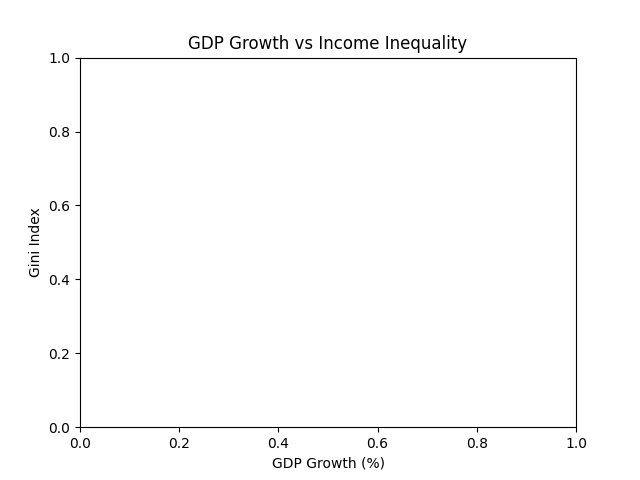
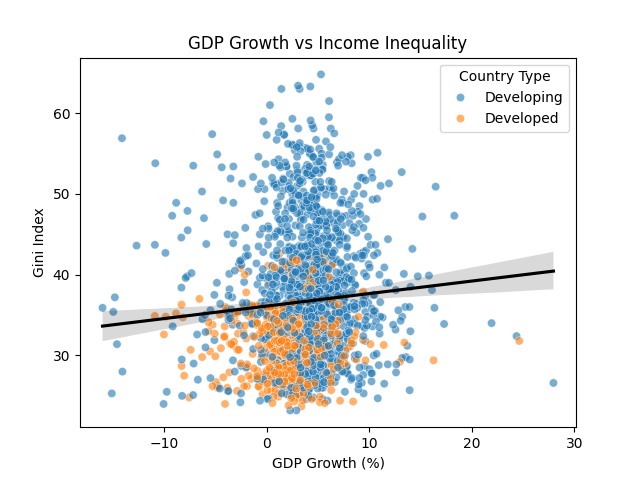
Edited errors in visualisations of charts.
- Added a requirements.txt file to specify necessary packages for the GDP inequality analysis project.
- Included packages: ipython, numpy, pandas, matplotlib, seaborn, and openpyxl for data analysis and visualization.

diff --git a/GDP-inequality-analysis_portfolio/scripts/analysis.py b/GDP-inequality-analysis_portfolio/scripts/analysis.py
@@ -7,9 +7,14 @@ print(df["Series Name"].unique())
 
 # Seperate economic indicators
 gdp_growth = df[df["Series Name"] == "GDP growth (annual %)"]
-gdp_pc = df[df["Series Name"] == "GDP per capita (current US $)"]
+gdp_pc = df[df["Series Name"] == "GDP per capita (current US$)"]
 population = df[df["Series Name"] == "Population, total"]
 gini = df[df["Series Name"] == "Gini index"]
+
+print("GDP growth rows:", len(gdp_growth))
+print("GDP per capita rows:", len(gdp_pc))
+print("Population rows:", len(population))
+print("Gini rows:", len(gini))
 
 # merge GDP Growth and Gini (inequality)
 merged = pd.merge(
@@ -18,6 +23,9 @@ merged = pd.merge(
     on=["Country Name", "Country Code", "Year"],
     suffixes=("_gdp", "_gini")
 )
+print("Merged rows:", len(merged))
+print(merged.head())
+
 # Add GDP per capita
 gdp_pc = gdp_pc[["Country Name", "Year", "Value"]]
 gdp_pc = gdp_pc.rename(columns={"Value": "gdp_pc"})
@@ -50,9 +58,18 @@ sns.scatterplot(
     data=merged,
     x="Value_gdp",
     y="Value_gini",
-    hue="Country Type"
+    hue="Country Type",
+    alpha=0.6
 )
 
+# Add regression line
+sns.regplot(
+    data=merged,
+    x="Value_gdp",
+    y="Value_gini",
+    scatter=False,
+    color="black"
+)
 plt.title("GDP Growth vs Income Inequality")
 plt.xlabel("GDP Growth (%)")
 plt.ylabel("Gini Index")
@@ -116,3 +133,28 @@ plt.xlabel("Year")
 plt.ylabel("Average Gini Index")
 
 plt.savefig("../charts/inequality_by_country_type.png")
+
+# Chart 6: Kuznets Curve Test
+plt.figure()
+
+# scatter points
+sns.scatterplot(
+    data=merged,
+    x="gdp_pc",
+    y="Value_gini",
+    alpha=0.6
+)
+sns.regplot(
+    data=merged,
+    x="gdp_pc",
+    y="Value_gini",
+    scatter=False,
+    order=2,
+    color="red"
+)
+plt.title("GDP per Capita vs Income Inequality (Kuznets Curve Test)")
+plt.xlabel("GDP per Capita (US$)")
+plt.ylabel("Gini Index")
+
+plt.savefig("../charts/kuznets_curve_test.png")
+plt.close()

diff --git a/GDP-inequality-analysis_portfolio/README.md b/GDP-inequality-analysis_portfolio/README.md
@@ -1,1 +1,39 @@
-# DataAnalytics_Portfolios
+#
+## Project Structure
+GDP-inequality-analysis_portfolio/
+|
+|-- charts/
+|    |-- correlation_heatmap.png
+|    |-- gdp_vs_inequality.png
+|    |-- global_inequality_trend.png
+|    |-- growth_comparison.png
+|    |-- inequality_by_country_type.png
+|    |-- kuznets_curve_test.png
+|
+|-- data/
+|   |-- P_Data_Extract_From_World_Development_Indcators.xlsx
+|   |-- cleaned_data.csv
+|   |-- final_analysis_dataset.csv
+|
+|-- scripts/
+|   |-- analysis.py
+|   |-- data_cleaning.py
+|
+|-- README.md
+|-- requirements.txt
+
+### Folder Description
+charts/
+All visualizations generated during the analysis process.
+
+data/
+Contains the raw dataset downloaded from the World Bank and the processed datasets used for analysis.
+
+scripts/
+Pythin scripts used to clean the data and perform the economic analysis.
+
+requirements.txt
+List of Python libraries required to run the project.
+
+README.md
+Documentation describing the project, methodology, and findings.
